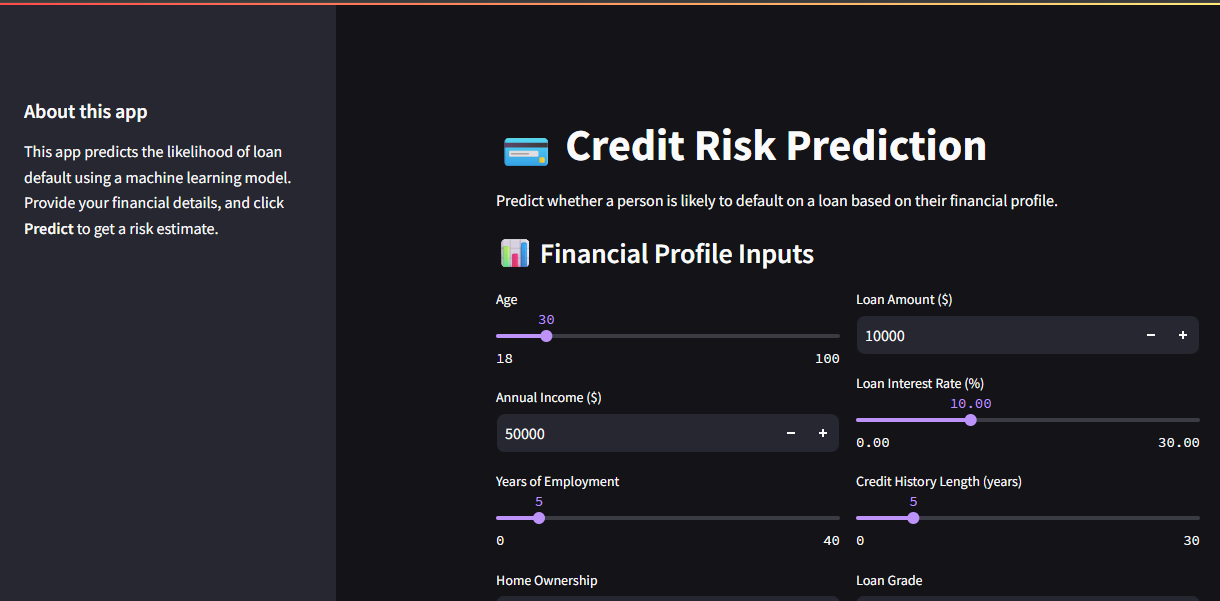
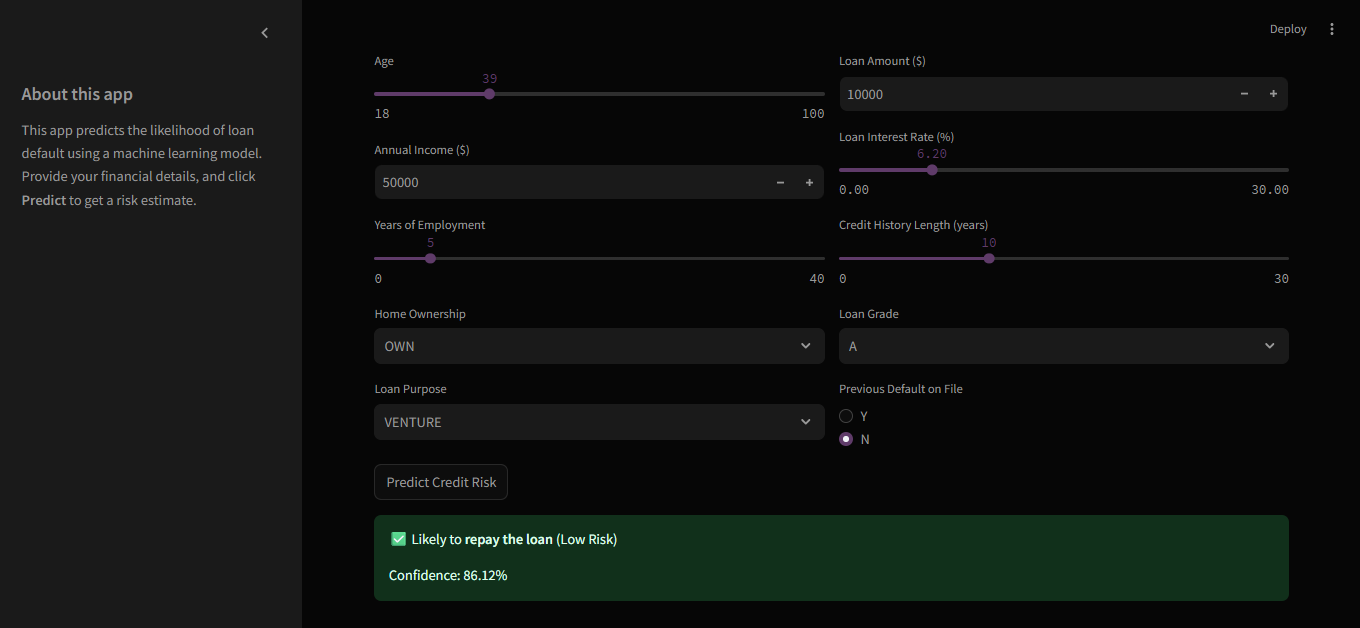
edit EDA

diff --git a/app/app.py b/app/app.py
@@ -7,7 +7,7 @@ import pandas as pd
 
 xgboost=joblib.load('models/xgboost.pkl')
 scaler=joblib.load('models/scaler.pkl')
-
+st.set_page_config(layout="wide")
 st.markdown("""
         <style>
                .block-container {
@@ -29,7 +29,7 @@ with st.sidebar:
         This app predicts the likelihood of loan default using a machine learning model.
         Provide your financial details, and click **Predict** to get a risk estimate.
     """)
-st.subheader("📊 Financial Profile Inputs")
+
 #Inputs
 col1, col2 = st.columns(2)
 with col1:
